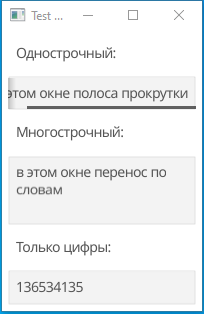
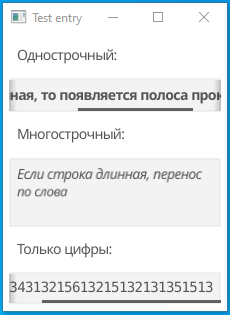
ent cmt

diff --git a/entry/main.go b/entry/main.go
@@ -1,6 +1,8 @@
 package main
 
 import (
+	"fmt"
+
 	"fyne.io/fyne/v2"
 	"fyne.io/fyne/v2/app"
 	"fyne.io/fyne/v2/container"
@@ -17,16 +19,20 @@ func main() {
 	// in1.Wrapping = fyne.TextWrapOff // окно проги разъезжается при заполнени виджета. тупо выглядит
 	// in1.Wrapping = fyne.TextWrapBreak // для мультистрочного виджета (тут просто прокрутка)
 	// in1.Wrapping = fyne.TextWrapWord // для мультистрочного виджета (тут просто прокрутка)
+	in1.OnChanged = func(s string) { fmt.Println(s) }
+	in1.TextStyle.Bold = true
 
 	in2 := widget.NewMultiLineEntry() // при создании элемента Wrapping = TextTruncate
 	// in2.Wrapping = fyne.TextTruncate  // при заполнении виджита появляются вертикальная и горизонтальная полосы прокрутки
 	// in2.Wrapping = fyne.TextWrapOff // окно проги разъезжается
 	// in2.Wrapping = fyne.TextWrapBreak // перенос того что неуместилось на другую строку - прям по стредине слова (горизонтальной полосы прокрутки нет)
 	in2.Wrapping = fyne.TextWrapWord // самый удобный для редактора: перенос по словам (горизонтальной полосы прокрутки нет)
+	in2.TextStyle.Italic = true
 
 	// расширение возможностей базового типа
 	// ввод только цифор
 	in3 := newNumericalEntry()
+	in3.Entry.TextStyle.Monospace = true
 
 	box := container.NewVBox(widget.NewLabel("Однострочный:"), in1,
 		widget.NewLabel("Многострочный: "), in2,

diff --git a/readme.md b/readme.md
@@ -22,23 +22,25 @@
 
 **Entry.Wrapping:**
 
-- `TextTruncate` – если виджет заполняется больше, чем его ширина, то появляется вертикальная полоса прокрутки. Прям ок, редко нужно что-то другое.
+- `TextTruncate` – (значение по умолчанию), если виджет заполняется больше, чем его ширина, то появляется вертикальная полоса прокрутки (удобно для элемента с фиксированным размером). 
 
-- `TextWrapOff` – если заполнить больше ширины виджета, то окно проги разъезжается! Тупо выглядит. Интересно зачем это...
+- `TextWrapOff` – если заполнить больше ширины виджета, то окно проги разъезжается! Интересно зачем это...
 
-- `TextWrapBreak` – для мультистрочного виджета (тут просто прокрутка).
+- `TextWrapBreak` – для мультистрочного виджета.
 
-- `TextWrapWord` – для мультистрочного виджета (тут просто прокрутка).
+- `TextWrapWord` – для мультистрочного виджета.
 
 **MultiLineEntry.Wrapping:**
 
-- `TextTruncate` – если виджет заполняется больше своей ширины появляется вертикальная полоса прокрутки и если строк больше чем его длинна, появляется горизонтальная полоса прокрутки.
+- `TextTruncate` – (значение по умолчанию), если виджет заполняется больше своей ширины появляется вертикальная полоса прокрутки и если строк больше чем его длинна, появляется горизонтальная полоса прокрутки.
 
-- `TextWrapOff`  – окно проги разъезжается! и в ширину и длину при вводе длинных строк ¯\\_(ツ)_/¯.
+- `TextWrapOff`  – форма разъезжается! и в ширину и длину при вводе длинных строк ¯\\_(ツ)_/¯.
 
 - `TextWrapBreak`  – если виджет заполняется больше ширины, то (вместо горизонтальной полосы прокрутки) все что не уместилось в одну строчку, переносится на другую строку (часто посередине слова). Вертикальная полоса прокрутки есть.
 
 - `TextWrapWord`  –  тоже с переносом на новую строку, но по словам, не обрывая на полуслове. Самый удобный вариант для редактора. Вертикальная полоса прокрутки есть.
+
+**Entry.TextStyle**: **Bold**, *Italic*, `Monospace`, Symbol, TabWidth.
 
 ### Расширение базового типа
 
